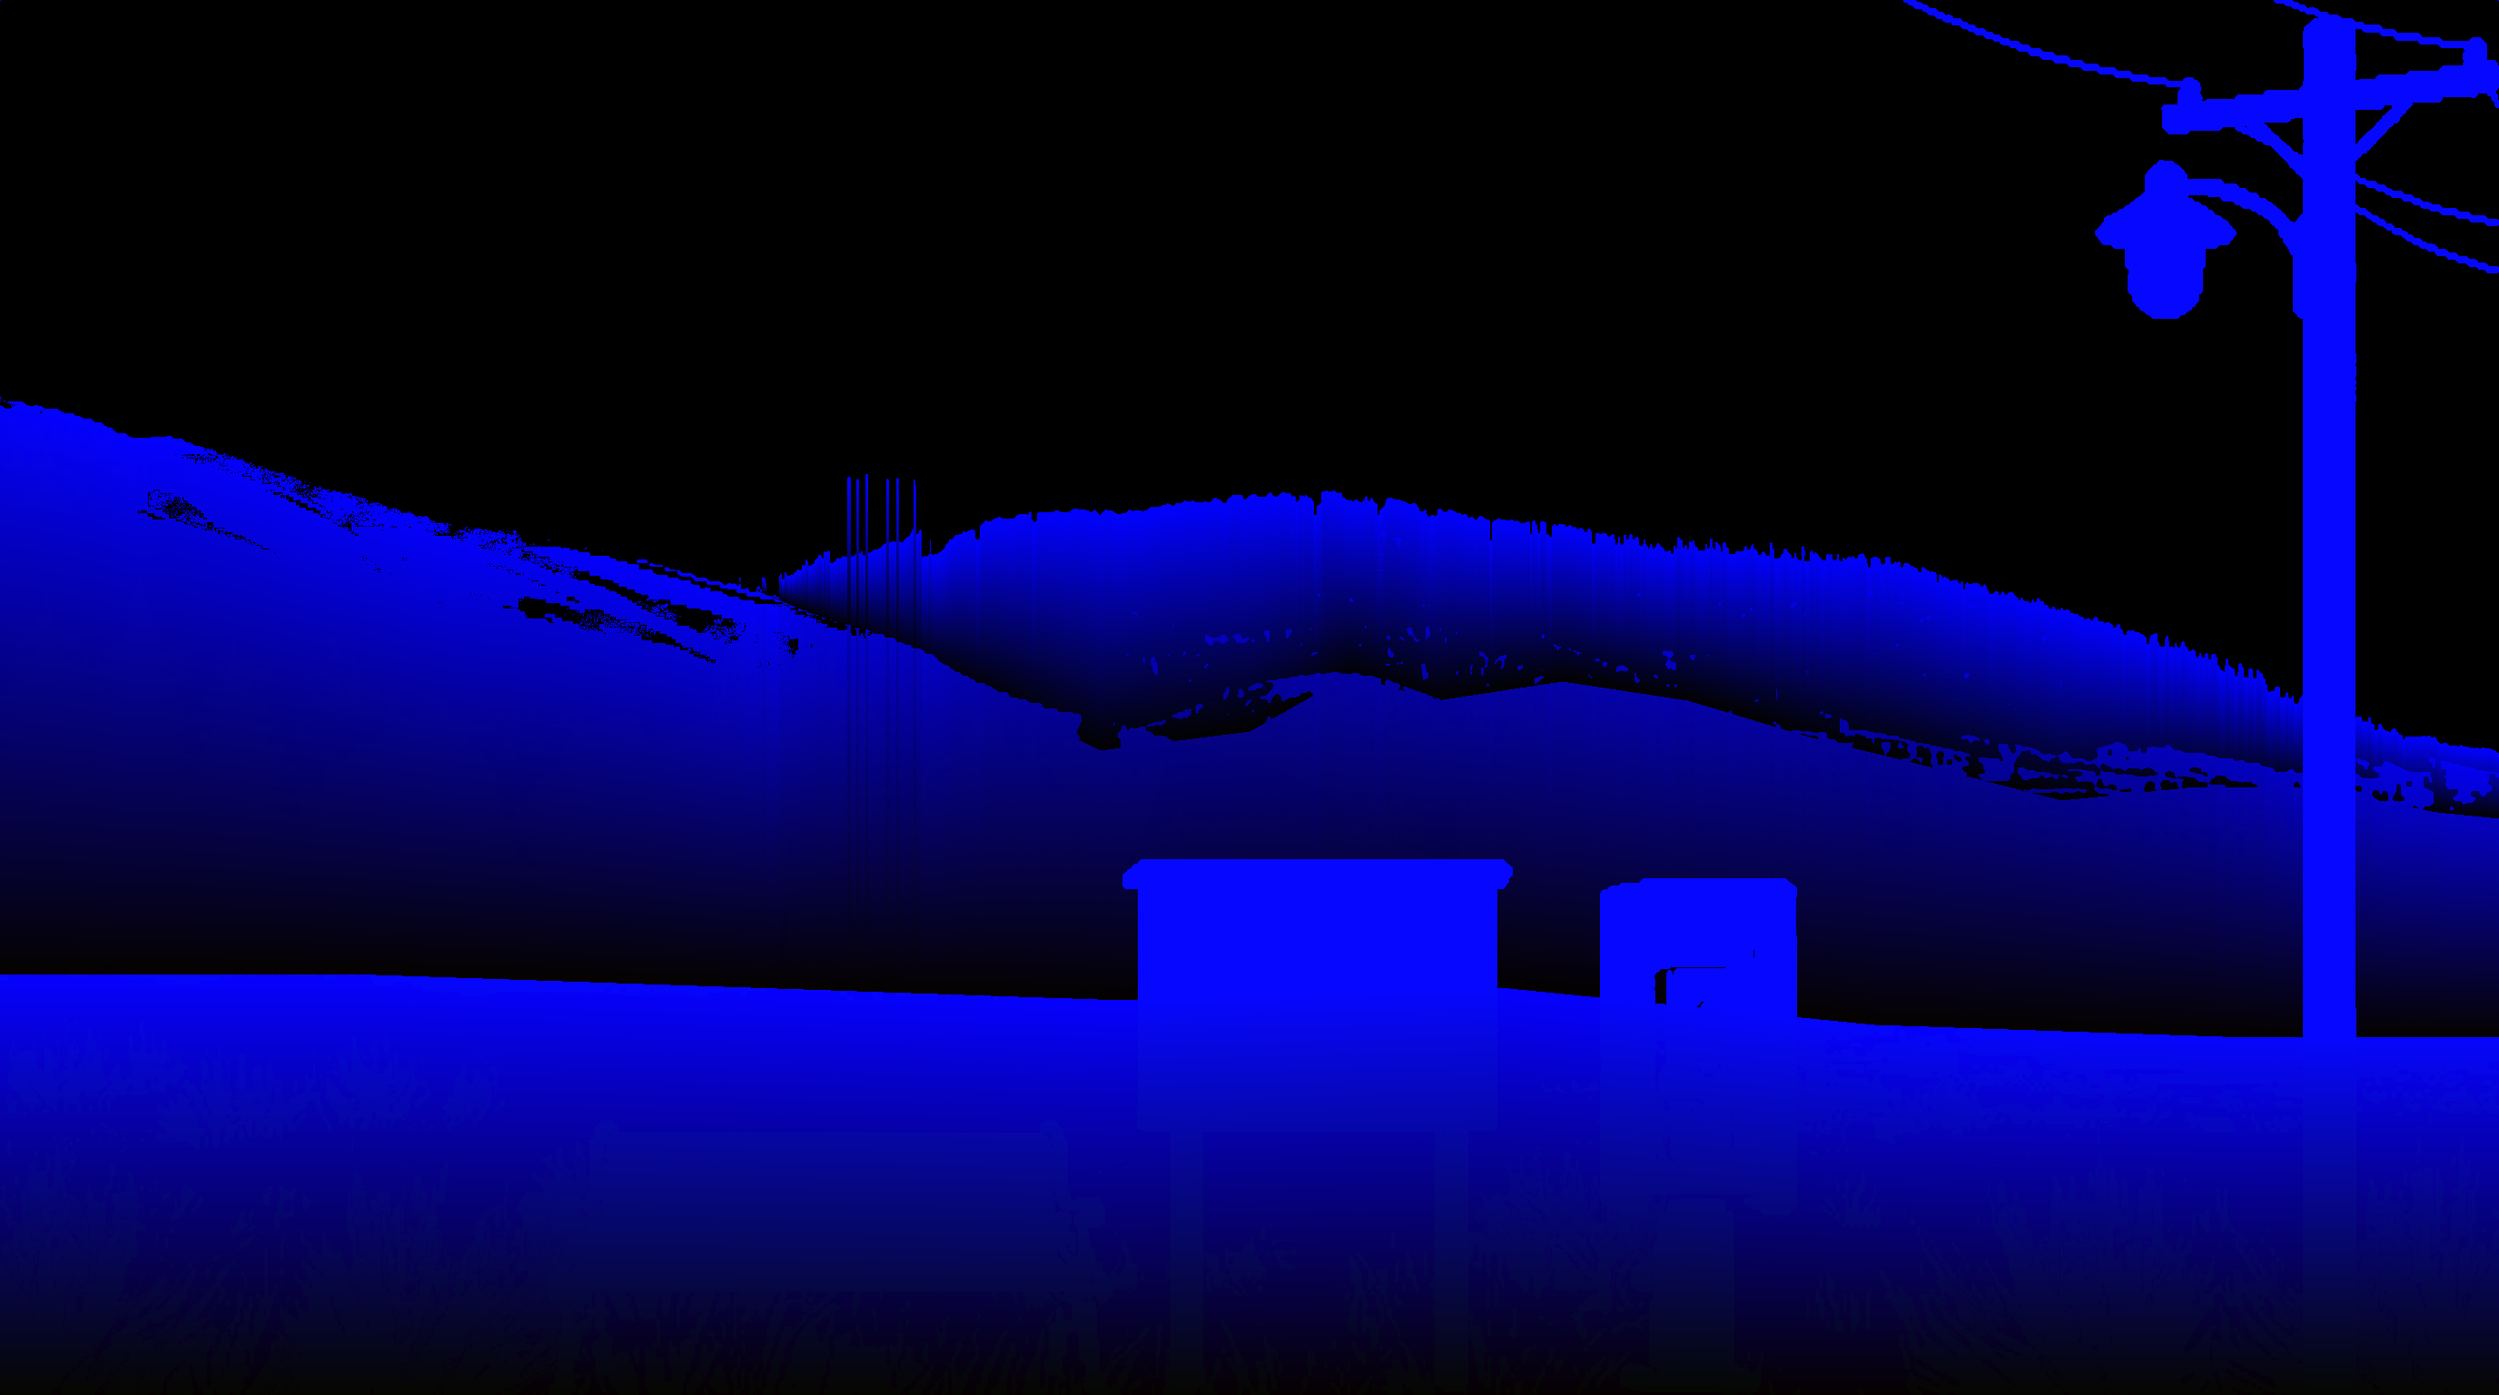
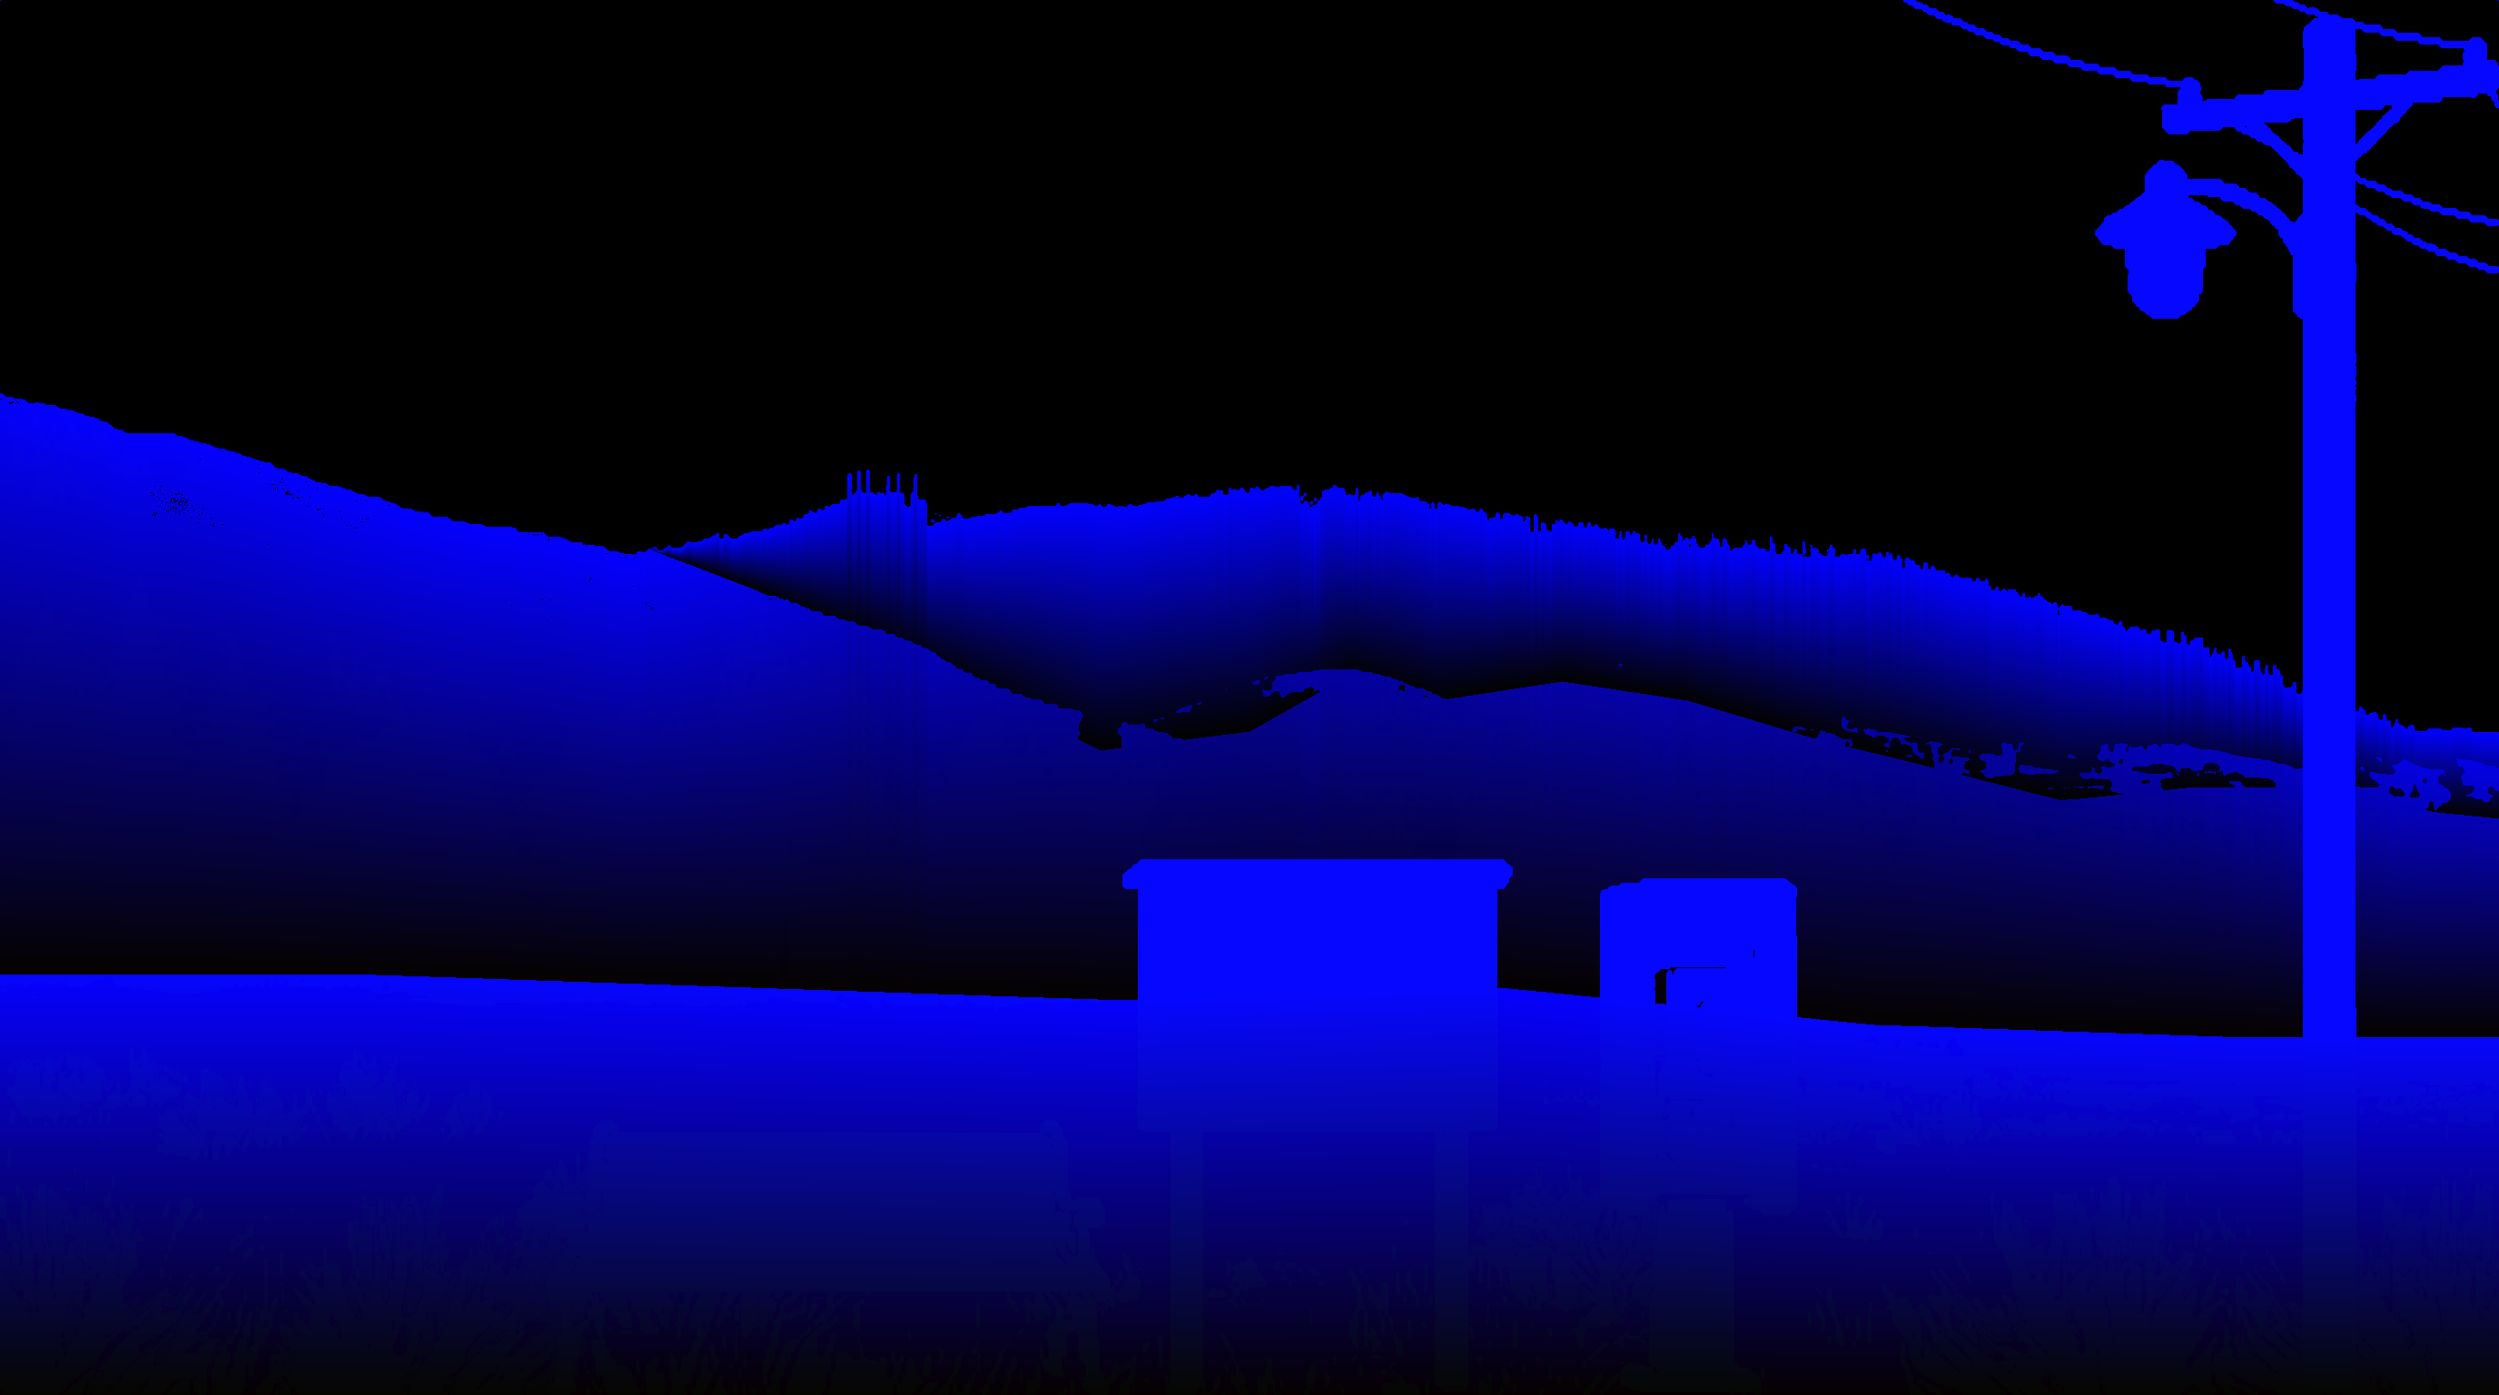
Use the clean Dean Stone painting; keep the knob's summit and its masts
dean_stone_alone.jpg replaces mount_dean_stone.png as the backdrop: same scene, but the cloud
no longer lies on Sentinel's slope, so the sky stops showing through the hillside. The crest
scan now counts the dark-blue haze of the forested summit as terrain (cloud shadows in this
painting are lighter), and raw dark pixels standing on the crest survive the majority filter,
so the radio masts stay. A painting a couple of pixels off the reference size is snapped to it.

Claude-Session: https://claude.ai/code/session_017uG7MLuTApwrxSRPSGFBpr

diff --git a/tools/build_backdrop.py b/tools/build_backdrop.py
@@ -120,6 +120,11 @@ def main():
     art = Image.open(os.path.join(ROOT, 'art', cfg['art'])).convert('RGB')
     bare = Image.open(os.path.join(ROOT, 'art', cfg['bare'])).convert('RGB')
     ref_w, ref_h = cfg['ref']
+    # a painting a couple of pixels off the reference size (export rounding) is snapped to it
+    if art.size != (ref_w, ref_h) and abs(art.size[0] - ref_w) <= 4 and abs(art.size[1] - ref_h) <= 4:
+        art = art.resize((ref_w, ref_h), Image.NEAREST)
+    if bare.size != (ref_w, ref_h) and abs(bare.size[0] - ref_w) <= 4 and abs(bare.size[1] - ref_h) <= 4:
+        bare = bare.resize((ref_w, ref_h), Image.NEAREST)
     # scale: the painting may be an exact multiple of the config's reference size
     k = args.scale
     if k == 1 and art.size[0] != ref_w:
@@ -189,7 +194,7 @@ def main():
     else:
         tan, green, dark, navy = classify(bare_np)
         hazy = (bb < 176) & (bb > br + 8) & (blum < 150) & (yy >= ridge_min_y)
-        terrain = majority(tan | green | dark) if cfg.get('scan_simple') else majority(tan | green | dark | navy | hazy)
+        terrain = majority(tan | green | dark | navy) if cfg.get('scan_simple') else majority(tan | green | dark | navy | hazy)
         run = np.zeros(W, int); top = np.full(W, H, int)
         for y in range(H):
             run = np.where(terrain[y], run + 1, 0)
@@ -231,6 +236,9 @@ def main():
         if args.debug: np.save(os.path.join(args.debug, 'crest.npy'), crest); np.save(os.path.join(args.debug, 'scan.npy'), scan); np.save(os.path.join(args.debug, 'trace.npy'), polyline_y(pts(cfg['skyline']), W))
     sky |= (yy < top[None, :] - 1) & (~peak)
     sky = majority(sky)
+    # thin dark things standing on the crest (radio masts, lone pines) survive the filter
+    dark_raw = blum < 80
+    sky &= ~(dark_raw & (yy > top[None, :] - 70 * k) & (yy >= ridge_min_y))
     # pale patches below the crest are cloud between tree crowns (sky) or snow on a summit
     # (terrain): decide by the neighborhood, foliage around it vs rock around it
     # (judged on the scene painting: the prop-less export can differ around the props)

diff --git a/CLAUDE.md b/CLAUDE.md
@@ -19,7 +19,7 @@ An interactive website styled like a Sierra point-and-click scene: a park bench,
 
 **One environment object drives everything.** `src/main.js` runs the `requestAnimationFrame` loop. Each frame `computeEnv()` builds `state.env` from the current time (or the debug override), the sun/moon position (`src/util/solar.js`), the live weather (`src/weather.js`, Open-Meteo, no API key, refreshed every 10 min), and the sky palette (`src/palette.js`, keyframed by sun altitude and modified by cloud cover, precipitation, fog). Renderers read only `env`; they never fetch or look at the clock. Missoula local time is derived via `Intl` with `America/Denver`; `src/state.js` holds the constants (`W`, `H`, `HORIZON`, lat/lon).
 
-**The scene is the painting, re-lit per frame-key.** The canvas is the size of the art (`assets/backdrop.json`, read by `src/state.js` as `META` at load; the canvas element and CSS stage follow it, and all scene geometry the JS needs, hotspots, cork, lantern, camera targets, fog lines, snow caps, default notes, comes from that JSON, so JS holds no art-specific numbers and a new painting is a new `art/NAME.json`). `assets/backdrop.png` is the current painting (`art/current`, config `art/dean_stone.json`: `mount_dean_stone.png`, 16:9 at 2752x1536, a prop-less painting of Mount Dean Stone's forested dome; the bench, board, pay phone and pole are copied in from `wider_aspect.png` through the props-only mask, `props_from` in the config) at native pixels, with the sky masked out and the painted notes cleared off the cork; `assets/backdrop_mask.png` carries per pixel a depth layer (R: sky, peak, range, far hill, flank, trees, near), a material (G: grass, foliage, rock, snow, dirt, shrub, prop) and a height-within-layer (B). Prop pixels come from the props-only image on black when the config has one, else from the difference between the painting with props and the same painting without them, inside known boxes (`prop_rects` in the config). A config with `far_is_forest` treats the far range as a forested dome (layer RANGE, canopy snow) rather than rock; `scan_simple` finds the crest from hillside and forest colors only, so clouds lying on the ridge are not mistaken for it. `src/assets.js` decodes both once at startup; `src/render/terrain.js` walks every pixel and applies seasonal grass tint, the snowline (by height fraction per layer), rain darkening, aerial perspective/fog toward `pal.horizon`, then the **light**: each layer has its own sun horizon (`LAYERS` in terrain.js: the peak is lit from about -4° sun altitude, the valley from +0.6°), so at dawn and dusk lit layers take an additive pink-orange alpenglow while unlit ones sit in cool shadow; moonlight (night, moon up, bright phase) silvers snow and rock; silhouettes against the sky get a warm rim at low sun or a silver rim under the moon; then the ambient multiplier. Prop pixels skip tint and snow but get the same light. Two fog looks are drawn in the same pass: an **inversion** (`env.inversion`: fog code in a cold month, or the debug preset) fills the far valley behind the tree band with a flat-topped, lit-edged sea of fog (`INVERSION_TOP` in terrain.js, screen y) so the ranges rise out of it under a clear sky, and **mountain fog** (`env.mountainFog`: Open-Meteo low cloud cover, precipitation, or the debug preset) hangs noise-driven banks mid-slope on the peak, range and Sentinel's far end. An **overnight dusting** (`env.dusting`: snowfall in the last 18 hours from the hourly feed, and hours above freezing since; the debug preset derives the thaw from the hour of day) whitens the hills thinly and melts off from the bottom up at each layer's own `meltHours`, so by afternoon only the top of the range keeps it. The moon, inversion, mountain fog and dusting are part of `terrainKey`. The debug panel has a moon override (live / full / half / down) and weather presets for inversion and mountain fog. Sky pixels stay transparent so the procedural sky shows through. The painted summit snow is treated as a June amount: months with less (July through October per `SEASON_SNOW`) recolor those pixels as rock, and only snow beyond the painted amount is added. Live data still only decides *what happens* (snow, fog, wet); colors come from the painting and the palette. Silhouette keypoints and prop boxes live in the painting's config; material rules in `tools/build_backdrop.py`. **Do not redraw the props in code, and do not synthesize new art** (no tiled-texture fills, no invented ridgelines): the user's painting is the look; the build script only masks, classifies and cleans what is painted, and code only adds light, weather and what changes. If a silhouette is wrong, the user repaints it in `art/` and the config's traces get re-measured.
+**The scene is the painting, re-lit per frame-key.** The canvas is the size of the art (`assets/backdrop.json`, read by `src/state.js` as `META` at load; the canvas element and CSS stage follow it, and all scene geometry the JS needs, hotspots, cork, lantern, camera targets, fog lines, snow caps, default notes, comes from that JSON, so JS holds no art-specific numbers and a new painting is a new `art/NAME.json`). `assets/backdrop.png` is the current painting (`art/current`, config `art/dean_stone.json`: `dean_stone_alone.jpg`, 16:9 at 2752x1536, a prop-less painting of Mount Dean Stone's forested dome with a clean Sentinel slope (`mount_dean_stone.png` is the same scene with a cloud lying on Sentinel, which the mask cannot separate); the bench, board, pay phone and pole are copied in from `wider_aspect.png` through the props-only mask, `props_from` in the config) at native pixels, with the sky masked out and the painted notes cleared off the cork; `assets/backdrop_mask.png` carries per pixel a depth layer (R: sky, peak, range, far hill, flank, trees, near), a material (G: grass, foliage, rock, snow, dirt, shrub, prop) and a height-within-layer (B). Prop pixels come from the props-only image on black when the config has one, else from the difference between the painting with props and the same painting without them, inside known boxes (`prop_rects` in the config). A config with `far_is_forest` treats the far range as a forested dome (layer RANGE, canopy snow) rather than rock; `scan_simple` finds the crest from hillside and forest colors only, so clouds lying on the ridge are not mistaken for it. `src/assets.js` decodes both once at startup; `src/render/terrain.js` walks every pixel and applies seasonal grass tint, the snowline (by height fraction per layer), rain darkening, aerial perspective/fog toward `pal.horizon`, then the **light**: each layer has its own sun horizon (`LAYERS` in terrain.js: the peak is lit from about -4° sun altitude, the valley from +0.6°), so at dawn and dusk lit layers take an additive pink-orange alpenglow while unlit ones sit in cool shadow; moonlight (night, moon up, bright phase) silvers snow and rock; silhouettes against the sky get a warm rim at low sun or a silver rim under the moon; then the ambient multiplier. Prop pixels skip tint and snow but get the same light. Two fog looks are drawn in the same pass: an **inversion** (`env.inversion`: fog code in a cold month, or the debug preset) fills the far valley behind the tree band with a flat-topped, lit-edged sea of fog (`INVERSION_TOP` in terrain.js, screen y) so the ranges rise out of it under a clear sky, and **mountain fog** (`env.mountainFog`: Open-Meteo low cloud cover, precipitation, or the debug preset) hangs noise-driven banks mid-slope on the peak, range and Sentinel's far end. An **overnight dusting** (`env.dusting`: snowfall in the last 18 hours from the hourly feed, and hours above freezing since; the debug preset derives the thaw from the hour of day) whitens the hills thinly and melts off from the bottom up at each layer's own `meltHours`, so by afternoon only the top of the range keeps it. The moon, inversion, mountain fog and dusting are part of `terrainKey`. The debug panel has a moon override (live / full / half / down) and weather presets for inversion and mountain fog. Sky pixels stay transparent so the procedural sky shows through. The painted summit snow is treated as a June amount: months with less (July through October per `SEASON_SNOW`) recolor those pixels as rock, and only snow beyond the painted amount is added. Live data still only decides *what happens* (snow, fog, wet); colors come from the painting and the palette. Silhouette keypoints and prop boxes live in the painting's config; material rules in `tools/build_backdrop.py`. **Do not redraw the props in code, and do not synthesize new art** (no tiled-texture fills, no invented ridgelines): the user's painting is the look; the build script only masks, classifies and cleans what is painted, and code only adds light, weather and what changes. If a silhouette is wrong, the user repaints it in `art/` and the config's traces get re-measured.
 
 **Layers with cache keys.** `src/render/renderer.js` keeps offscreen canvases for the sky gradient, the re-lit terrain, the props, and the ambient-tinted props, each refreshed only when its key string in `env` changes (`skyKey`, `terrainKey`, `ambientKey`, plus the props key); those keys quantize sun altitude, cloud cover, snow, month, moon, fog, etc. If you add a new input to one of those renderers, add it to the matching key or the change will never show up. The two per-pixel passes (sky gradient, terrain) run in a **Web Worker** (`src/render/terrain_worker.js`, which imports the same modules; `state.js` and `assets.js` are worker-safe) and come back as an `ImageBitmap`, so a rebuild that takes a second on a big painting never stalls the page; the previous image stays up until the new one lands. From those, two static composites are built per key change: `base` (sky, moon, sun, terrain, fog bands, shadows, props) and `fg` (the same without the sky). Each frame draws straight onto the visible canvas under the camera transform: base, stars, clouds, then `fg` back over the clouds if there are any, lamp glow, precipitation. **Idle frames are skipped entirely** (nothing animated and no key change), which is what makes a 2752-wide scene affordable. Per-frame things are pre-rendered where they can be: the star field into its own layer ten times a second, rain and snow as two scrolling tiles per condition, the lamp glow as two additive sprites, each cumulus as a sprite. `window.__liminal` exposes `state` and `renderer`; set `renderer.profile = true` and read `renderer.steps` for per-step timings.
 
